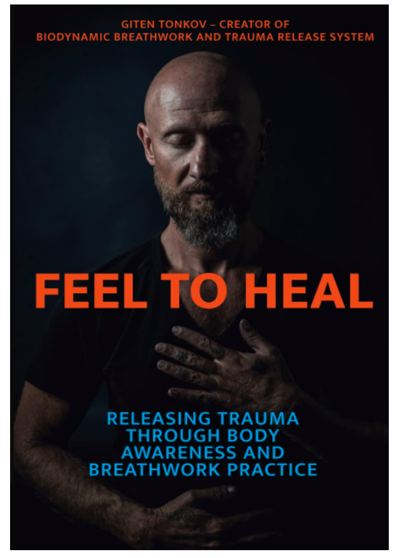
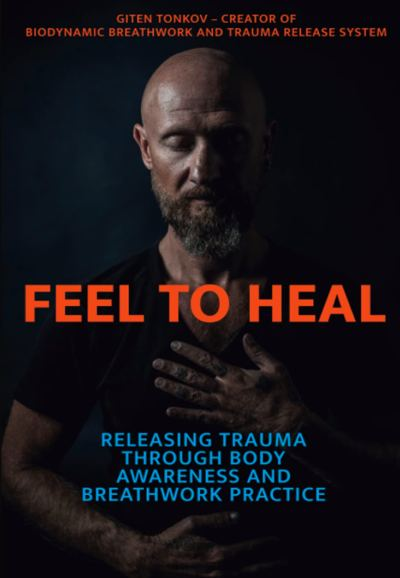
v0.20.5: trimmed Feel to Heal cover; Lab videos open in full-width modal viewer (iframe on open, destroyed on close)

diff --git a/index.html b/index.html
@@ -228,7 +228,7 @@ footer{text-align:center;color:var(--mut);font-size:12px;padding:50px 0 34px}foo
  <h3>Videos</h3>
  <ul class="lrow"><li class="lc"><img src="https://i.ytimg.com/vi/crpUWY3Bi5M/mqdefault.jpg" alt="Video: Myofascial Energetic Release Training With founder Satyarthi Peloquin" loading="lazy" width="320" height="180"><span class="lt"><i class="lb">Video</i><i class="lb free">Free</i></span><b>Myofascial Energetic Release Training With founder Satyarthi Peloquin</b><small>Myofascial Energetic Release by Satyarthi Peloquin</small></li><li class="lc"><img src="https://i.ytimg.com/vi/7b0ziT10Zpw/mqdefault.jpg" alt="Video: Myofascial Energetic Release: Revolutionary New Elements" loading="lazy" width="320" height="180"><span class="lt"><i class="lb">Video</i><i class="lb lock">Sign in</i></span><b>Myofascial Energetic Release: Revolutionary New Elements</b><small>Myofascial Energetic Release by Satyarthi Peloquin</small></li><li class="lc"><img src="https://i.ytimg.com/vi/b4vg4Y_yIMw/mqdefault.jpg" alt="Video: Psoas Release for Low Back Pain | Myofascial Energetic Release Demo with Satyarthi Peloquin" loading="lazy" width="320" height="180"><span class="lt"><i class="lb">Video</i><i class="lb lock">Sign in</i></span><b>Psoas Release for Low Back Pain | Myofascial Energetic Release Demo with Satyarthi Peloquin</b><small>Myofascial Energetic Release by Satyarthi Peloquin</small></li><li class="lc"><img src="https://i.ytimg.com/vi/OG9VhxyYjOY/mqdefault.jpg" alt="Video: Discover the Power of BBTRS®: Explained by Founder Giten Tonkov" loading="lazy" width="320" height="180"><span class="lt"><i class="lb">Video</i><i class="lb free">Free</i></span><b>Discover the Power of BBTRS®: Explained by Founder Giten Tonkov</b><small>Biodynamic Breathwork Trauma Release Institute</small></li><li class="lc"><img src="https://i.ytimg.com/vi/JcWmW2VZ5FU/mqdefault.jpg" alt="Video: Introduction to BioDynamic Breathwork &amp; Trauma Release System." loading="lazy" width="320" height="180"><span class="lt"><i class="lb">Video</i><i class="lb lock">Sign in</i></span><b>Introduction to BioDynamic Breathwork &amp; Trauma Release System.</b><small>Biodynamic Breathwork Trauma Release Institute</small></li><li class="lc"><img src="https://i.ytimg.com/vi/_XN7MuIcOls/mqdefault.jpg" alt="Video: Biodynamic Breathwork (BBTRS)-Home practice demo with founder Giten Tonkov" loading="lazy" width="320" height="180"><span class="lt"><i class="lb">Video</i><i class="lb lock">Sign in</i></span><b>Biodynamic Breathwork (BBTRS)-Home practice demo with founder Giten Tonkov</b><small>Biodynamic Breathwork Trauma Release Institute</small></li></ul>
  <h3>Books</h3>
- <ul class="lrow"><li class="lc"><img src="app/lab/issue-lives-in-the-tissue-cover.jpg" alt="Book: The Issue Lives in the Tissue" loading="lazy" width="320" height="180"><span class="lt"><i class="lb">Book</i><i class="lb lock">Sign in</i></span><b>The Issue Lives in the Tissue</b><small>Nisarga Eryk Dobosz</small></li><li class="lc"><img src="app/lab/feel-to-heal-cover.jpg" alt="Book: Feel to Heal" loading="lazy" width="320" height="180"><span class="lt"><i class="lb">Book</i><i class="lb lock">Sign in</i></span><b>Feel to Heal</b><small>Giten Tonkov</small></li></ul>
+ <ul class="lrow"><li class="lc"><img src="app/lab/issue-lives-in-the-tissue-cover.jpg" alt="Book: The Issue Lives in the Tissue" loading="lazy" width="320" height="180"><span class="lt"><i class="lb">Book</i><i class="lb lock">Sign in</i></span><b>The Issue Lives in the Tissue</b><small>Nisarga Eryk Dobosz</small></li><li class="lc"><img src="app/lab/feel-to-heal-cover.jpg?v=2" alt="Book: Feel to Heal" loading="lazy" width="320" height="180"><span class="lt"><i class="lb">Book</i><i class="lb lock">Sign in</i></span><b>Feel to Heal</b><small>Giten Tonkov</small></li></ul>
  <h3>Free live sessions</h3>
  <ul class="lrow"><li class="lc"><span class="lph" aria-hidden="true">◉</span><span class="lt"><i class="lb">Live</i><i class="lb free">Free</i></span><b>Free online breathwork</b><small>BBTRS® · Biodynamic Breathwork</small></li><li class="lc"><span class="lph" aria-hidden="true">◉</span><span class="lt"><i class="lb">Live</i><i class="lb free">Free</i></span><b>Free Sunday meditations</b><small>MER® · Myofascial Energetic Release</small></li></ul>
  <p style="text-align:center;margin-top:22px"><a class="btn gold" href="app/?tab=learn">Open Fascia Lab →</a></p>

diff --git a/app/app.js b/app/app.js
@@ -524,6 +524,16 @@ function renderLearn(){const box=$("#learnList");if(!box)return;const items=(win
   return `<button type="button" class="lcard${ready?"":" lph"}${locked?" locked":""}" ${act} ${ready?"":"disabled"} aria-label="${esc(x.title)}: ${lk?esc(x.cta||"Sign up"):foot}">
    <div class="lthumb">${labCover(x,id)}${locked?`<span class="lockov">${LOCK}</span>`:""}</div>
    <div class="lbody"><div class="lbadges">${badge}${state}</div><b>${esc(x.title)}</b>${x.by?`<small class="lby">${esc(x.by)}</small>`:""}${x.line?`<small class="muted">${esc(x.line)}</small>`:""}<span class="lfoot">${foot}</span></div></button>`}).join("")}</div>`).join("")}
-document.addEventListener("click",e=>{const y=e.target.closest(".lcard[data-yt]");if(y){const t=y.querySelector(".lthumb");if(!t.querySelector("iframe"))t.innerHTML=`<iframe src="https://www.youtube-nocookie.com/embed/${y.dataset.yt}?autoplay=1&rel=0&playsinline=1" title="YouTube video" allow="autoplay; encrypted-media; picture-in-picture; fullscreen" allowfullscreen></iframe>`;return}
+document.addEventListener("click",e=>{const y=e.target.closest(".lcard[data-yt]");if(y){openVideo(y.dataset.yt,(y.querySelector(".lbody b")||{}).textContent||"Video");return}
+ if(e.target.closest("[data-vclose]")){closeVideo();return}
  const pd=e.target.closest(".lcard[data-pdf]");if(pd){window.open(pd.dataset.pdf,"_blank","noopener");return}
  if(e.target.closest("[data-unlock]")){fillLastEmail();setMode(false);show("auth")}});
+
+// Full-screen-style video viewer: iframe created on open, destroyed on close
+function openVideo(id,title){closeVideo();const d=document.createElement("div");d.id="vModal";d.className="vmodal";d.setAttribute("role","dialog");d.setAttribute("aria-modal","true");d.setAttribute("aria-label",title);
+ d.innerHTML=`<div class="vbox"><div class="vtop"><b>${esc(title)}</b><button type="button" class="vx" data-vclose="1" aria-label="Close video">✕</button></div>
+ <div class="vplayer"><iframe src="https://www.youtube-nocookie.com/embed/${encodeURIComponent(id)}?autoplay=1&rel=0&playsinline=0&modestbranding=1" title="${esc(title)}" allow="autoplay; encrypted-media; picture-in-picture; fullscreen" allowfullscreen></iframe></div>
+ <a class="vyt" href="https://www.youtube.com/watch?v=${encodeURIComponent(id)}" target="_blank" rel="noopener">Open in YouTube ↗</a></div>`;
+ d.addEventListener("click",e=>{if(e.target===d)closeVideo()});document.body.appendChild(d)}
+function closeVideo(){const d=document.getElementById("vModal");if(d){const f=d.querySelector("iframe");if(f)f.src="about:blank";d.remove()}}
+document.addEventListener("keydown",e=>{if(e.key==="Escape")closeVideo()});

diff --git a/app/learn.js b/app/learn.js
@@ -19,7 +19,7 @@ window.FASCIAPP_LEARN = [
   { section: "Videos", title: "Introduction to BioDynamic Breathwork & Trauma Release System.", by: "Biodynamic Breathwork Trauma Release Institute", line: "BBTRS · 3:11", type: "youtube", youtubeId: "JcWmW2VZ5FU", public: false },
   { section: "Videos", title: "Biodynamic Breathwork (BBTRS)-Home practice demo with founder Giten Tonkov", by: "Biodynamic Breathwork Trauma Release Institute", line: "BBTRS home practice · 21:27", type: "youtube", youtubeId: "_XN7MuIcOls", public: false },
   { section: "Ebooks", title: "The Issue Lives in the Tissue", by: "Nisarga Eryk Dobosz", line: "Free Trauma Release ebook. PDF download.", type: "pdf", url: "lab/issue-lives-in-the-tissue.pdf", cover: "lab/issue-lives-in-the-tissue-cover.jpg", public: false },
-  { section: "Ebooks", title: "Feel to Heal", by: "Giten Tonkov", line: "Releasing trauma through body awareness and breathwork practice", type: "pdf", url: "lab/feel-to-heal.pdf", cover: "lab/feel-to-heal-cover.jpg", public: false },
+  { section: "Ebooks", title: "Feel to Heal", by: "Giten Tonkov", line: "Releasing trauma through body awareness and breathwork practice", type: "pdf", url: "lab/feel-to-heal.pdf", cover: "lab/feel-to-heal-cover.jpg?v=2", public: false },
   // Free live sessions: official pages, checked 11 Oct 2026
   { section: "Free live sessions", title: "Free online breathwork", by: "BBTRS® · Biodynamic Breathwork", line: "Free online community sessions, twice a month.", type: "link", cta: "Sign up", url: "https://biodynamicbreath.com/find-breathwork-training", public: true },
   { section: "Free live sessions", title: "Free Sunday meditations", by: "MER® · Myofascial Energetic Release", line: "Free online group session, every Sunday.", type: "link", cta: "Sign up", url: "https://www.myofascialtrainings.com/online-courses/group-sessions", public: true }

diff --git a/app/styles.css b/app/styles.css
@@ -267,3 +267,8 @@ body.in > main{overscroll-behavior:contain}
 .lfoot{margin-top:6px;font-size:12px;font-weight:600;color:#C99E67}
 .lbody b{display:-webkit-box;-webkit-line-clamp:3;-webkit-box-orient:vertical;overflow:hidden}
 .lcov.l{background:radial-gradient(circle at 50% 40%,#5FC9C344,transparent 62%),linear-gradient(160deg,#0f3d3a,#02191E)}.lcta{display:inline-block;background:#C99E67;color:#02191E;border-radius:16px;padding:5px 12px;font-size:12px}
+.vmodal{position:fixed;inset:0;z-index:3000;background:#000e;display:flex;align-items:center;justify-content:center;padding:env(safe-area-inset-top,0) 0 env(safe-area-inset-bottom,0)}
+.vbox{width:100%;max-width:960px}.vtop{display:flex;align-items:center;justify-content:space-between;gap:10px;padding:8px 12px;color:#F3EDE4}.vtop b{font-size:14px;line-height:1.3;overflow:hidden;text-overflow:ellipsis;display:-webkit-box;-webkit-line-clamp:2;-webkit-box-orient:vertical}
+.vx{flex:none;width:44px;height:44px;border-radius:50%;border:1px solid #fff5;background:#fff1;color:#fff;font-size:18px}
+.vplayer{width:100%;aspect-ratio:16/9;background:#000}.vplayer iframe{width:100%;height:100%;border:0;display:block}
+.vyt{display:block;text-align:center;padding:14px;color:#C99E67;font-weight:600;text-decoration:none}

diff --git a/app/index.html b/app/index.html
@@ -7,7 +7,7 @@
 <link rel="stylesheet" href="https://unpkg.com/leaflet@1.9.4/dist/leaflet.css">
 
 
-<link rel="stylesheet" href="styles.css?v=0.20.4"></head><body>
+<link rel="stylesheet" href="styles.css?v=0.20.5"></head><body>
 <div id="demoBanner" class="banner" hidden>Demo mode: saved on this device</div>
 <section id="splash" class="screen active">
  <svg class="biglogo logoMark" width="150" height="150" aria-hidden="true" viewBox="0 0 200 200" xmlns="http://www.w3.org/2000/svg">
@@ -192,9 +192,9 @@
 
 
 
-<script src="config.js?v=0.20.4"></script>
+<script src="config.js?v=0.20.5"></script>
 <script src="https://cdn.jsdelivr.net/npm/@supabase/supabase-js@2"></script>
-<script src="learn.js?v=0.20.4"></script><script src="data.js?v=0.20.4"></script><script src="app.js?v=0.20.4"></script>
+<script src="learn.js?v=0.20.5"></script><script src="data.js?v=0.20.5"></script><script src="app.js?v=0.20.5"></script>
 <script>
 if("serviceWorker" in navigator&&navigator.serviceWorker){
   // Never reload while the user is using the app: apply a new version only when the app is in the background or on next open.

diff --git a/app/sw.js b/app/sw.js
@@ -1,6 +1,6 @@
 // FasciApp service worker. Bump VERSION on every release.
 // App JS/CSS: network-first so Safari/PWA picks up updates. Other shell: cache-first.
-const VERSION="fasciapp-v0.20.4";
+const VERSION="fasciapp-v0.20.5";
 const SHELL=["./","index.html","styles.css","app.js","data.js","config.js","learn.js","logo.svg","manifest.json","icon-192-v4.png","icon-512-v4.png","apple-touch-icon-v4.png","favicon-32-v4.png","favicon-16-v4.png","icon-512-maskable-v4.png",
  "https://unpkg.com/leaflet@1.9.4/dist/leaflet.css","https://unpkg.com/leaflet@1.9.4/dist/leaflet.js"];
 const LAZY=["https://cdnjs.cloudflare.com/ajax/libs/jspdf/2.5.1/jspdf.umd.min.js","https://cdnjs.cloudflare.com/ajax/libs/jspdf-autotable/3.8.2/jspdf.plugin.autotable.min.js"];
